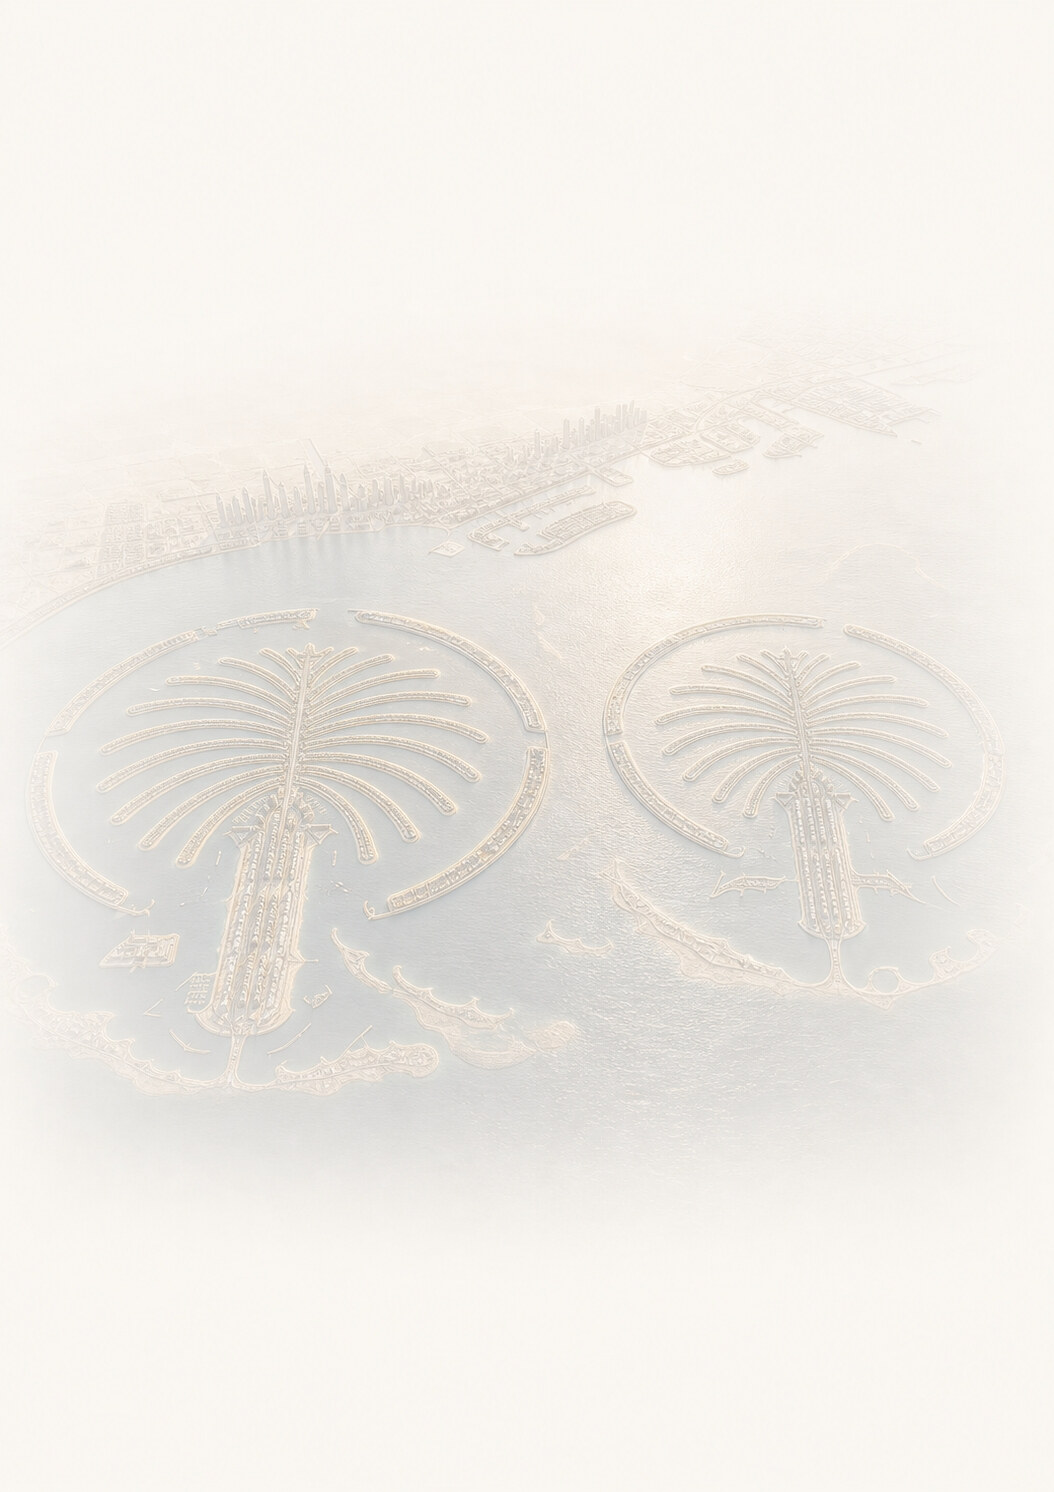
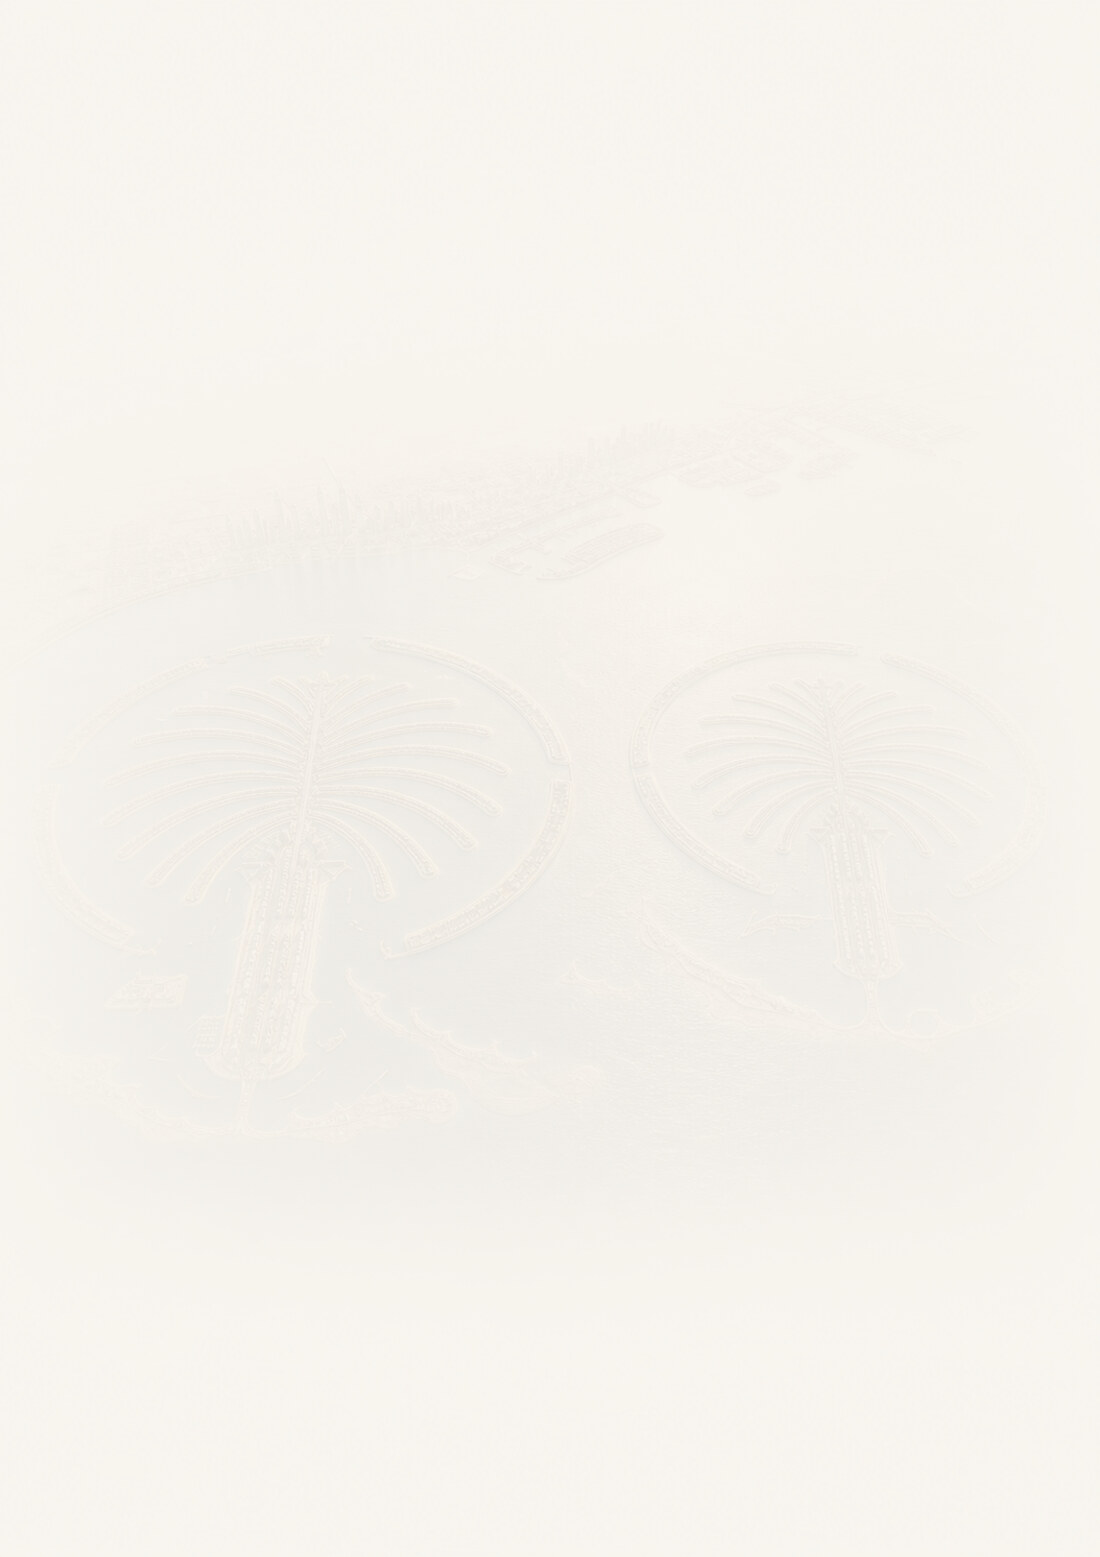
auto: sync 2026-08-02T16:45:01Z

Changed region(s): [[0.0911, 0.4008, 0.8805, 0.7399], [0.2125, 0.3083, 0.5769, 0.37]]

diff --git a/sgc_report_theme_core/static/src/scss/sgc_report.scss b/sgc_report_theme_core/static/src/scss/sgc_report.scss
@@ -375,16 +375,40 @@ body.o_body_pdf.container { padding-left: 0; padding-right: 0; }
     // survivable at 0.06 opacity - and z-index:-1 does not render in this
     // engine (see sgc_report_signature.scss).
     //
-    // The source is already toned to the ivory/gold palette with the page
-    // colour baked in as its background, so `contain` leaves no visible seam
-    // where the artwork ends - it is A4 portrait (0.706), taller than the
-    // body box, so it fits to height and centres with pure ivory either side.
-    // Strength lives in the asset itself because CSS cannot set opacity on a
-    // background image; re-export the file to adjust it, do not add a layer.
-    background-image: url('/sgc_report_theme_core/static/src/img/watermark_dubai_palm.jpg');
+    // The sources are already toned to the ivory/gold palette with the page
+    // colour baked in as their background, so `contain` leaves no visible seam
+    // where the artwork ends - they are A4 portrait (0.706), taller than the
+    // body box, so each fits to height and centres with pure ivory either side.
+    //
+    // STRENGTH LIVES IN THE ASSET, because CSS cannot set opacity on a
+    // background image. All four were flattened onto ivory and then blended
+    // back toward it until they measured the same: darkest pixel ~224 and
+    // standard deviation ~3 against an ivory of 244. They did NOT start
+    // equal - the Palm aerial was about 2.7x the ink of the others (min 159
+    // vs 212) and printed as a hard tan picture that fought the line table -
+    // so each got its own blend (palm 77%, museum 65%, burj 58%, al arab 37%
+    // toward ivory). Re-measure with
+    //   convert <file> -colorspace Gray -format '%[fx:minima*255]' info:
+    // if you swap artwork in; do not add an overlay to compensate.
     background-position: center;
     background-size: contain;
     background-repeat: no-repeat;
+}
+
+// Per-document artwork. The variant class is chosen in report_layout_sgc.xml
+// from the record's model, so a bridge gets the right landmark without having
+// to know anything about this file.
+.o_sgc_report.article.o_sgc_wm_palm {
+    background-image: url('/sgc_report_theme_core/static/src/img/watermark_dubai_palm.jpg');
+}
+.o_sgc_report.article.o_sgc_wm_burj_khalifa {
+    background-image: url('/sgc_report_theme_core/static/src/img/watermark_burj_khalifa.jpg');
+}
+.o_sgc_report.article.o_sgc_wm_museum {
+    background-image: url('/sgc_report_theme_core/static/src/img/watermark_museum_future.jpg');
+}
+.o_sgc_report.article.o_sgc_wm_burj_al_arab {
+    background-image: url('/sgc_report_theme_core/static/src/img/watermark_burj_al_arab.jpg');
 }
 
 // Gold frame. It must ENCLOSE the content, so its inset has to be SMALLER
